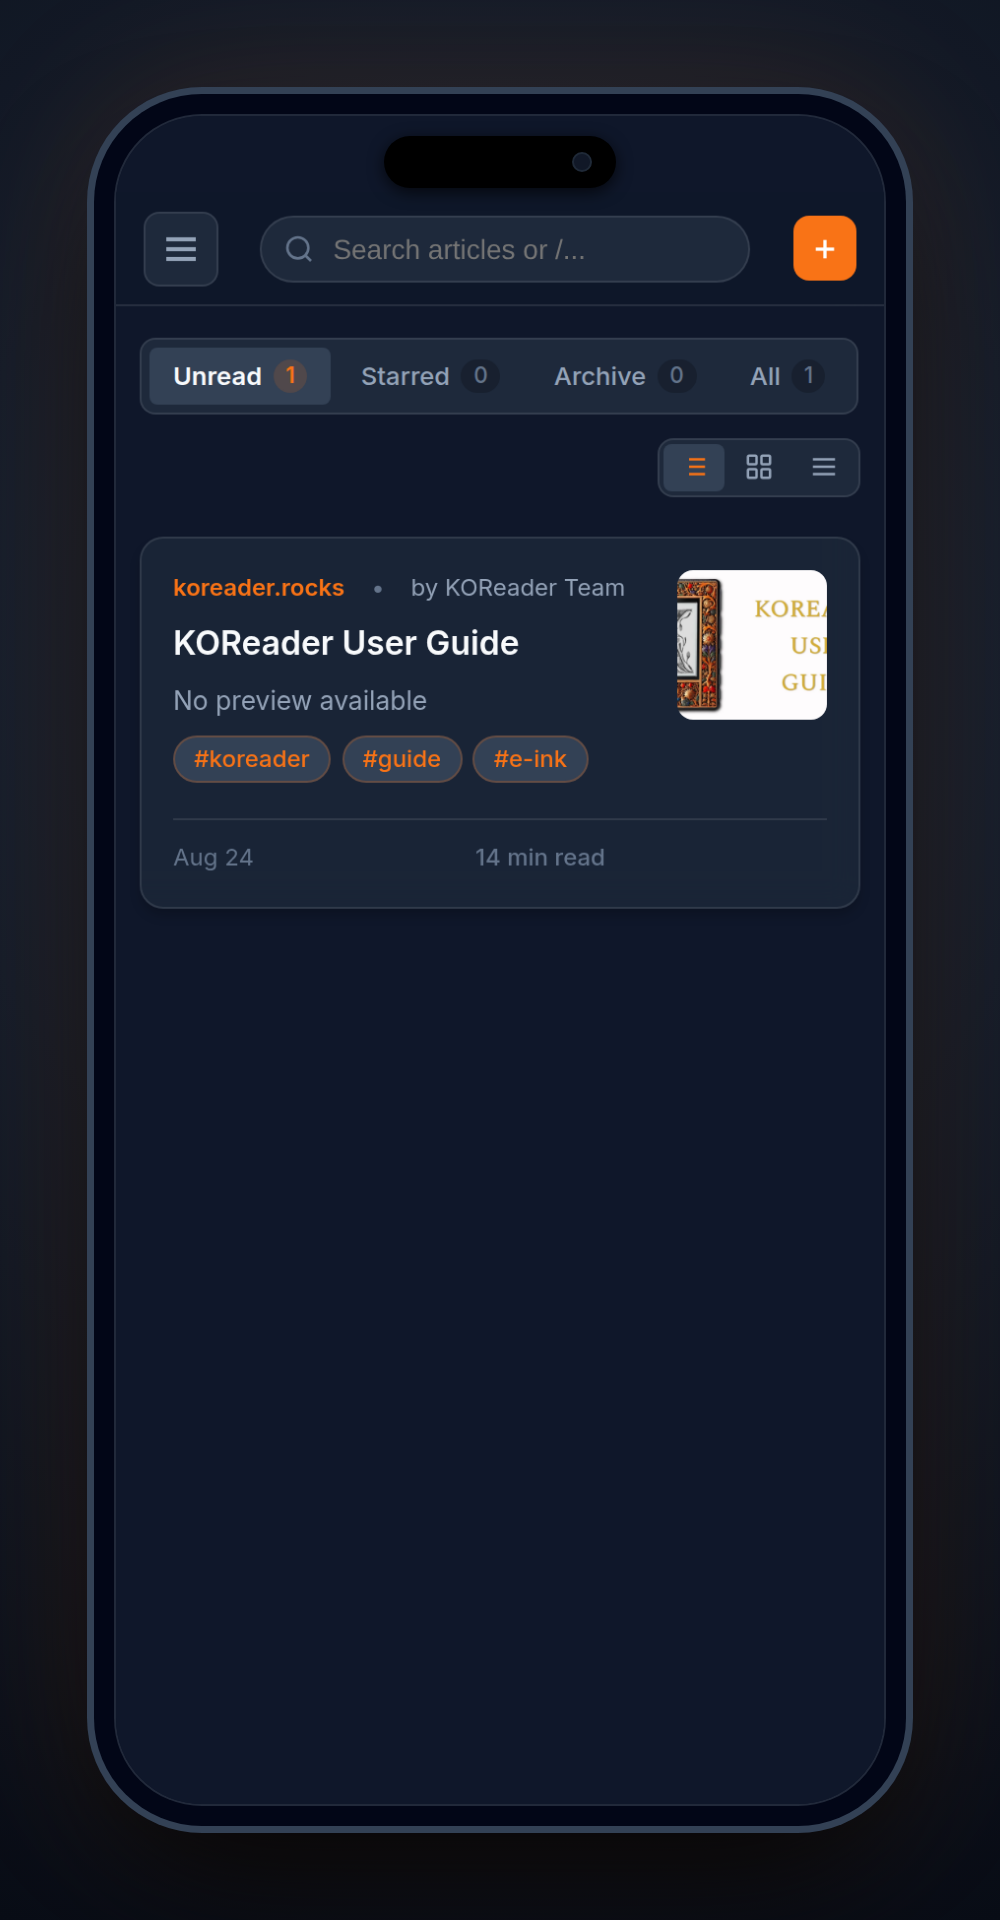
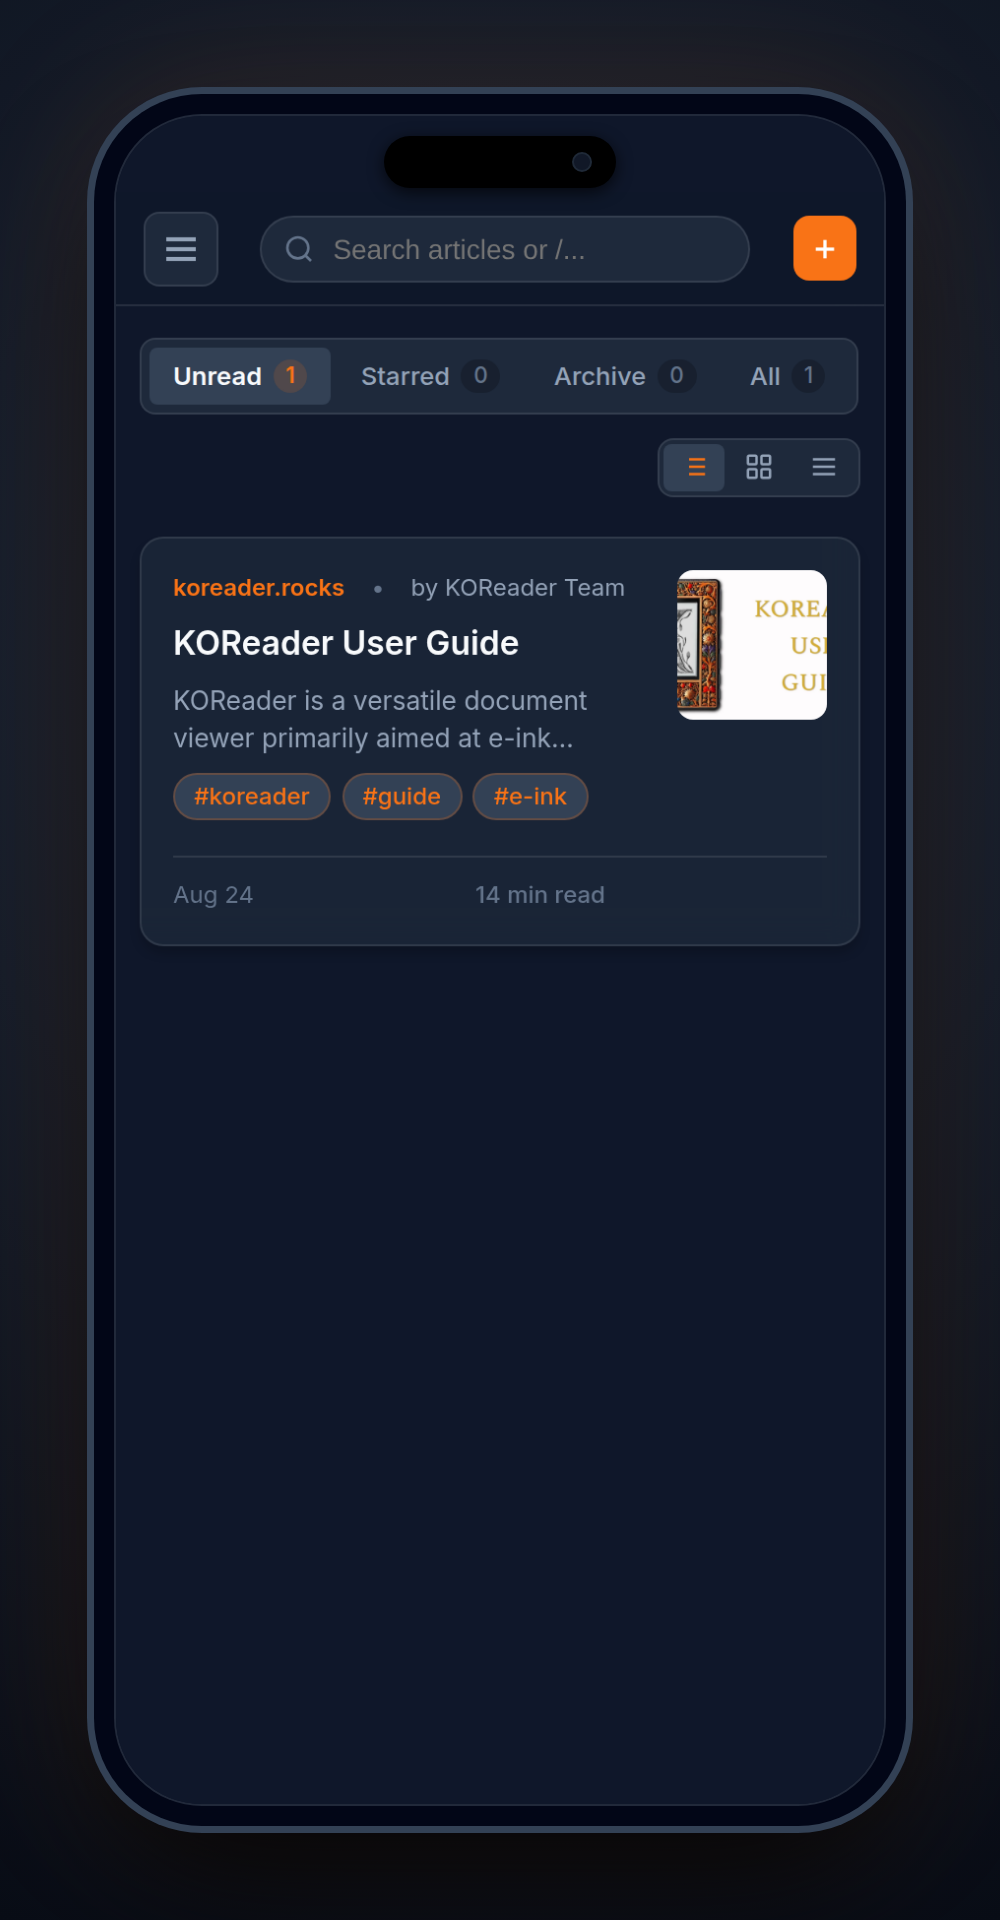
feat: improve card excerpt derivation and regenerate promo screenshots

Changed region(s): [[0.155, 0.3438, 0.62, 0.4688]]

diff --git a/src/views/dashboard.ts b/src/views/dashboard.ts
@@ -3483,7 +3483,8 @@ export function renderDashboardHtml(appName: string = 'Wallaflare'): string {
         const rawAuthor = item.author || (Array.isArray(item.published_by) && item.published_by.length > 0 ? item.published_by[0] : '');
         const author = (rawAuthor && rawAuthor !== 'wallaflare' && rawAuthor !== 'Unknown') ? rawAuthor : '';
         const date = item.created_at ? new Date(item.created_at).toLocaleDateString(undefined, { month: 'short', day: 'numeric' }) : '';
-        const excerpt = item.text ? item.text.slice(0, 160) + '...' : 'No preview available';
+        const rawContentText = item.text || item.excerpt || (item.content ? item.content.replace(/<[^>]*>/g, " ").replace(/\s+/g, " ").trim() : "");
+        const excerpt = rawContentText ? (rawContentText.length > 160 ? rawContentText.slice(0, 160) + "..." : rawContentText) : "No preview available";
         const previewPicture = item.preview_picture;
 
         const isChecked = selectedArticleIds.has(item.id);

diff --git a/scripts/generate-screenshots.ts b/scripts/generate-screenshots.ts
@@ -39,6 +39,7 @@ const sampleEntries = [
     updated_at: new Date().toISOString(),
     published_at: '2026-01-15T00:00:00Z',
     preview_picture: `http://localhost:${PORT}/pictures/medieval_hero.webp`,
+    text: "KOReader is a versatile document viewer primarily aimed at e-ink devices. It supports EPUB, PDF, DjVu, CBZ, FB2, and many more formats. Seamlessly sync your reading progress with Wallaflare.",
     is_starred: 0,
     is_archived: 0,
     tags: [
